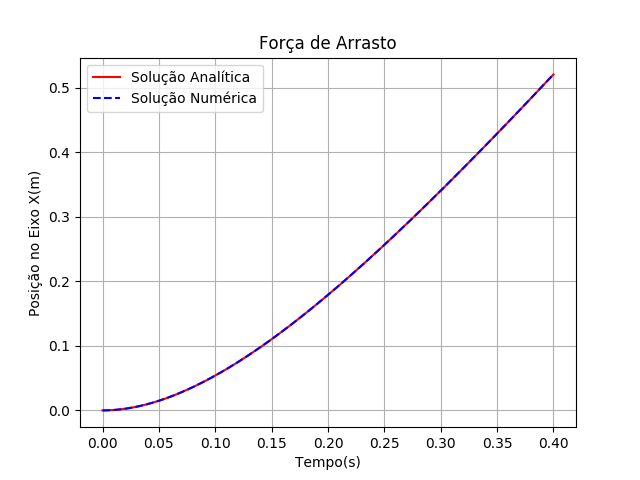
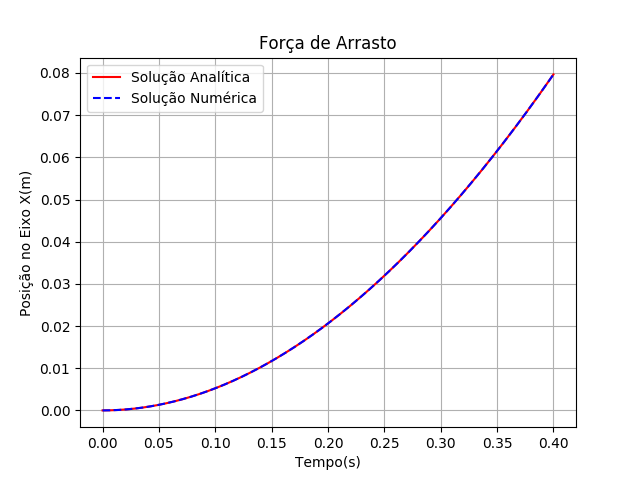
--Test cases: -Fixed drag force analitical solution. -Improved gravitational and drag solutions results by reducing dt and changing mesh and particle parameters.

diff --git a/test_setups/Run_validate_drag.py b/test_setups/Run_validate_drag.py
@@ -7,13 +7,13 @@ vel_const = 2.0
 total_time = 0.4
 TccLib.Particle.frame_skips = 1
 force = "drag"
-particle_density = 5.4e3
-particle_diameter = 5e-2
+particle_density = 3e4
+particle_diameter = 1e-3
 
 # Set liquid parameters or declare liquid
 # density = 1e3
 # viscosity = 0.89e-3
-liquid = "oil"
+liquid = "water"
 
 # Import gmsh created mesh, and set velocity field
 mesh = TccLib.Mesh("Forces", liquid=liquid)
@@ -33,10 +33,10 @@ m = particle_a.mass
 c = 3 * np.pi * mesh.viscosity * particle_a.diameter
 if c/m > 1:
     print("Particle conditions might cause an unexpected behavior!")
-analytic_expression = lambda t: -vel_const / c * (m*(-np.exp(-c*t/m)) + m - c*t)
+analytic_expression = lambda t: vel_const * ((np.exp(-c*t/m) - 1)*m/c + t)
 
 # Define dt based on convergence limit
-dt = min(particle_a.max_dt(mesh.viscosity), 1e-5)
+dt = min(particle_a.max_dt(mesh.viscosity), 1e-4)/2**6.
 
 # Define x vector of positions
 x_vector = np.arange(0, total_time, dt)

diff --git a/Anotacoes/TCC_LucasCarvalhoDeSousa/02_Cap2/Validacao.tex b/Anotacoes/TCC_LucasCarvalhoDeSousa/02_Cap2/Validacao.tex
@@ -260,12 +260,12 @@ Onde o erro relativo médio encontrado foi de $-0.31\%$ e com desvio padrão de 
 %---------------------------------------------------------------------------------------------Primeiro Exemplo
 \subsection{\textbf{Força Gravitacional}}
 
-Mean Error: -2.8778965615452992e-05
-Standard Error: 2.930427252714999e-05
+Mean Error: -3.5975243855522504e-06
+Standard Error: 3.663195869072394e-06
 %---------------------------------------------------------------------------------------------Segundo Exemplo
 \subsection{\textbf{Força de Arrasto}}
 
-Mean Error: 0.0002926604962750675
-Standard Error: 0.006407070087377279
+Mean Error: 5.116557525520803e-05
+Standard Error: 0.0025345030420307977
 %---------------------------------------------------------------------------------------------Terceiro Exemplo
 \subsection{\textbf{Força de Sustentação}}

diff --git a/test_setups/Run_validate_gravity.py b/test_setups/Run_validate_gravity.py
@@ -6,13 +6,13 @@ import numpy as np
 total_time = 0.4
 TccLib.Particle.frame_skips = 1
 force = "gravitational"
-particle_density = 5.4e5
-particle_diameter = 5e-5
+particle_density = 3e4
+particle_diameter = 1e-3
 
 # Set liquid parameters or declare liquid
 # density = 1e3
 # viscosity = 0.89e-3
-liquid = "oil"
+liquid = "water"
 
 # Import gmsh created mesh, and set velocity field
 mesh = TccLib.Mesh("Forces", liquid=liquid)
@@ -31,7 +31,7 @@ particle_a = TccLib.Particle("A", (0.07 * mesh.length_x, mesh.length_y), density
 mesh.add_particle(list_of_particles=[particle_a])
 
 # Define dt based on convergence limit
-dt = particle_a.max_dt(mesh.viscosity)/2.
+dt = min(particle_a.max_dt(mesh.viscosity), 1e-4)/2**4.
 
 # Define x vector of positions
 x_vector = np.arange(0, total_time, dt)
